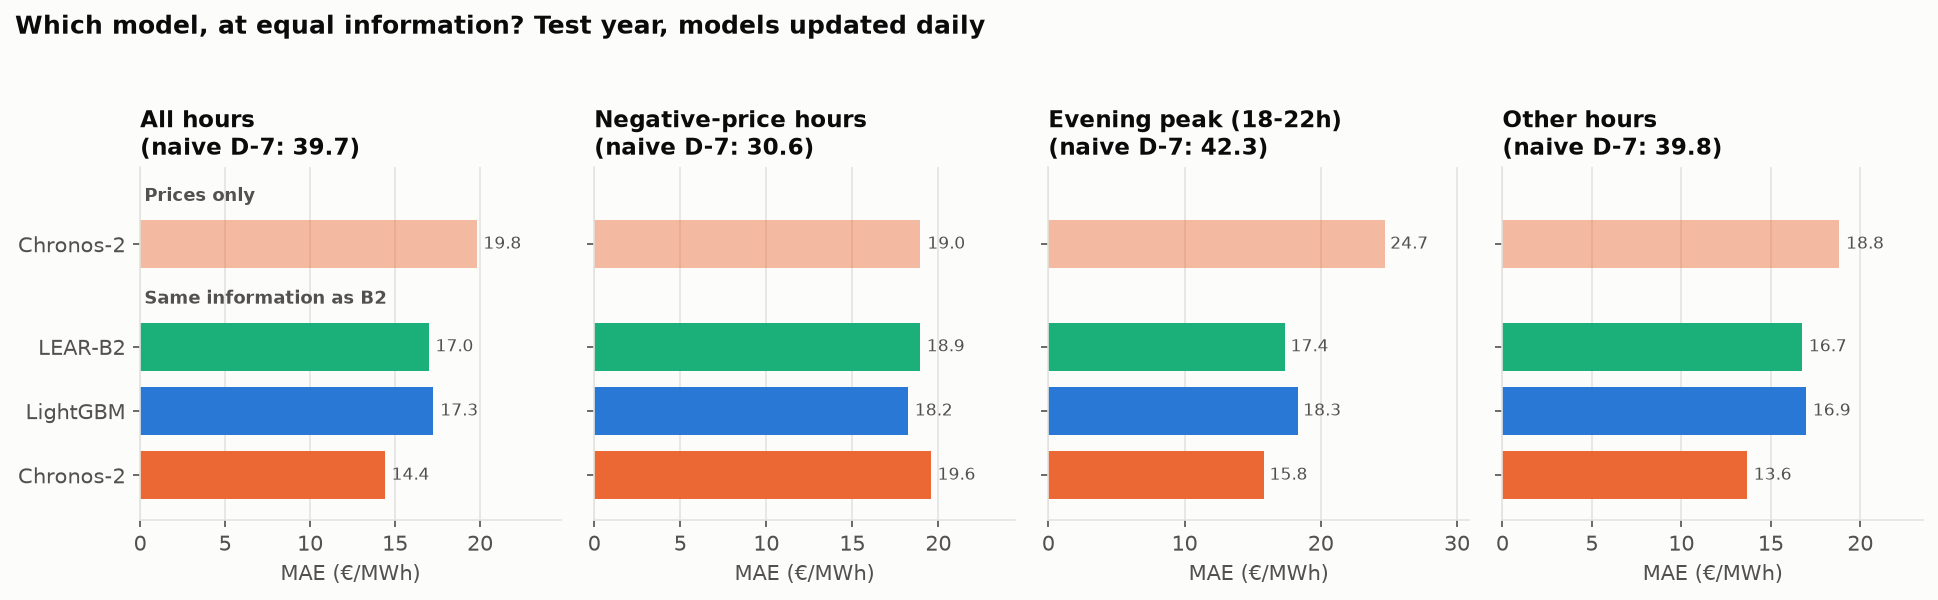
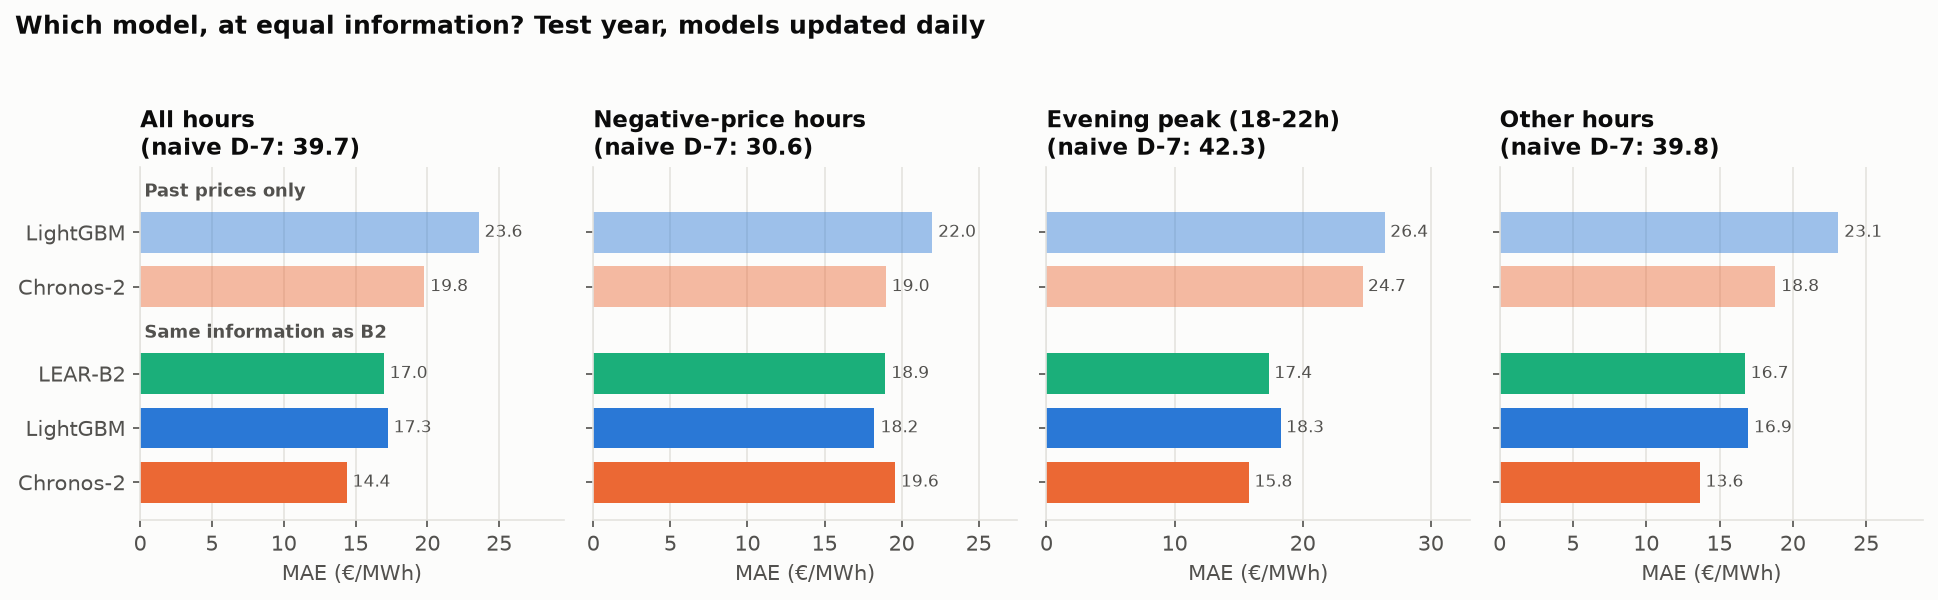
Add LightGBM on past prices only, retrained daily, to the comparison with Chronos-2

diff --git a/src/figures.py b/src/figures.py
@@ -135,11 +135,11 @@ def fig_retraining():
 
 # --------------------------------------------------------------------- 04. models at equal information
 def fig_models():
-    """Test year, daily updates: Chronos-2 on prices only, then three models with B2's information."""
-    rows = [("Chronos2_prices", "Chronos-2", ORANGE, 0.45),
+    """Test year, daily updates: two models on past prices only, then three with B2's information."""
+    rows = [("A2_daily", "LightGBM", BLUE, 0.45), ("Chronos2_prices", "Chronos-2", ORANGE, 0.45),
             ("LEAR_B2_daily", "LEAR-B2", AQUA, 1), ("B2_daily", "LightGBM", BLUE, 1),
             ("Chronos2_fund", "Chronos-2", ORANGE, 1)]
-    y = np.array([4.0, 2.4, 1.4, 0.4])                 # top to bottom, with a gap between the two groups
+    y = np.array([5.0, 4.0, 2.4, 1.4, 0.4])            # top to bottom, with a gap between the two groups
     m = _metrics("test")
     panels = [("all", "All hours"), ("negative", "Negative-price hours"),
               ("evening_peak", "Evening peak (18-22h)"), ("other", "Other hours")]
@@ -151,12 +151,12 @@ def fig_models():
             ax.text(v + 0.4, yi, f"{v:.1f}", va="center", fontsize=8, color=INK_2)
         naive = m.loc["naive_d7", (reg, "MAE")]
         ax.set_xlim(0, max(vals) * 1.25)
-        ax.set_ylim(-0.3, 5.2)
+        ax.set_ylim(-0.3, 6.2)
         ax.set_title(f"{title}\n(naive D-7: {naive:.1f})")
         ax.set_xlabel("MAE (€/MWh)")
         ax.grid(axis="y", visible=False)
     axes[0].set_yticks(y, [r[1] for r in rows])
-    for yy, lab in [(y[0] + 0.75, "Prices only"), (y[1] + 0.75, "Same information as B2")]:
+    for yy, lab in [(y[0] + 0.75, "Past prices only"), (y[2] + 0.75, "Same information as B2")]:
         axes[0].text(0.01, yy, lab, transform=axes[0].get_yaxis_transform(), ha="left", va="center",
                      fontsize=8.5, fontweight="bold", color=INK_2)
     fig.suptitle("Which model, at equal information? Test year, models updated daily",

diff --git a/src/backtest.py b/src/backtest.py
@@ -49,6 +49,7 @@ REFIT_FREQ = {"monthly": "MS", "weekly": "7D", "daily": "D"}
 REFIT_SUFFIX = {"weekly": "_weekly", "daily": "_daily"}
 # LightGBM variants: name -> (step, retraining pace, half-life of the recency weights in days)
 REFIT_VARIANTS = {"A1_weekly": ("A1", "weekly", None), "A2_weekly": ("A2", "weekly", None),
+                  "A2_daily": ("A2", "daily", None),
                   "B1_weekly": ("B1", "weekly", None), "B2_weekly": ("B2", "weekly", None),
                   "B2_daily": ("B2", "daily", None), "B2_rl_weekly": ("B2_rl", "weekly", None),
                   "B2_raw_weekly": ("B2_raw", "weekly", None)}
@@ -126,6 +127,7 @@ DM_PAIRS = [
     ("B2_rl", "B2"),                # same at the monthly pace (crisis period)
     ("B2_rl", "B2_raw"),
     ("Chronos2_fund", "Chronos2_prices"),  # do fundamentals help a foundation model?
+    ("A2_daily", "Chronos2_prices"),       # LightGBM vs foundation model, past prices only
     ("B2_weekly", "Chronos2_fund"),        # LightGBM vs foundation model, same information
     ("LEAR_daily", "LEAR_monthly"),
     # Added after the test run

diff --git a/README.md b/README.md
@@ -29,8 +29,9 @@ previous year. Error = mean absolute error (MAE) over the 8,760 hours of the yea
 gas and CO₂ prices. All models are updated every day.
 
 1. **Chronos-2 is the most accurate model.** Without any training on French data, it beats LightGBM
-   by 2.9 €/MWh (p < 0.001) when both get the same data. Its advantage disappears on hours with
-   negative prices, where the two are level.
+   by 2.9 €/MWh (p < 0.001) when both get the same data, and by 3.8 when both get only past prices.
+   With the full data set, its advantage disappears on hours with negative prices, where the two are
+   level.
 2. **With the same data, LightGBM and the linear benchmark are level** (17.3 against 17.0 €/MWh,
    p = 0.46).
 3. **The data and the update frequency count for more than the choice between these two models.**
@@ -188,16 +189,20 @@ The same data helps the other models too (test year):
 
 ### Models compared on the same data
 
-Models are only compared when they get the same data, here the data of step B2 (LEAR-B2, LightGBM
-and Chronos-2). All three are updated daily.
+Models are only compared when they get the same data: past prices only (LightGBM, which also gets
+the calendar, against Chronos-2), or the data of step B2 (LEAR-B2, LightGBM and Chronos-2). All are
+updated daily.
 
 Diebold-Mariano tests, test year (negative difference = the first model has the lower error):
 
 | Comparison | Data | MAE difference (€/MWh) | p-value |
 |---|---|---|---|
+| LightGBM vs Chronos-2 | past prices | +3.79 | < 0.001 |
 | LightGBM vs LEAR-B2 | B2 | +0.28 | 0.46 |
 | LightGBM vs Chronos-2 (chosen after seeing the results) | B2 | +2.87 | < 0.001 |
 
+- **Past prices only:** Chronos-2 is ahead of LightGBM by 3.8 €/MWh (19.8 against 23.6), and on every
+  group of hours, including negative-price hours (19.0 against 22.0, p = 0.05).
 - **LightGBM and LEAR-B2:** LEAR-B2 is slightly ahead on both years, but not significantly (test:
   17.0 against 17.3 €/MWh, p = 0.46; validation: 12.8 against 13.5, p = 0.07). LightGBM is clearly
   better only on validation's negative-price hours (10.1 against 13.0 €/MWh, p < 0.001), and that
